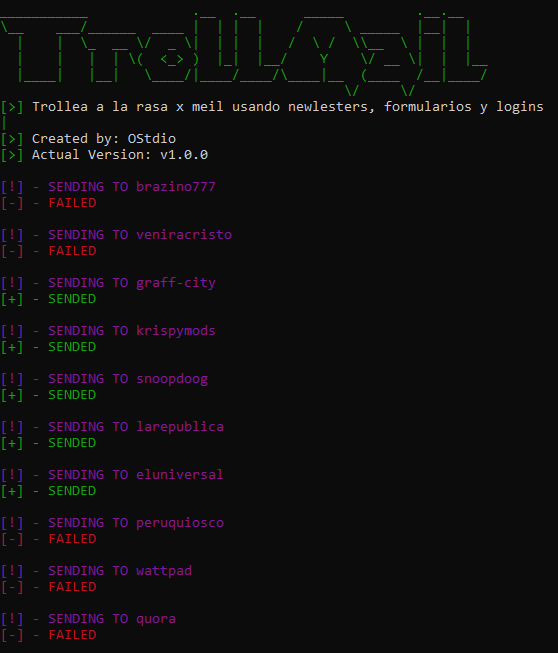
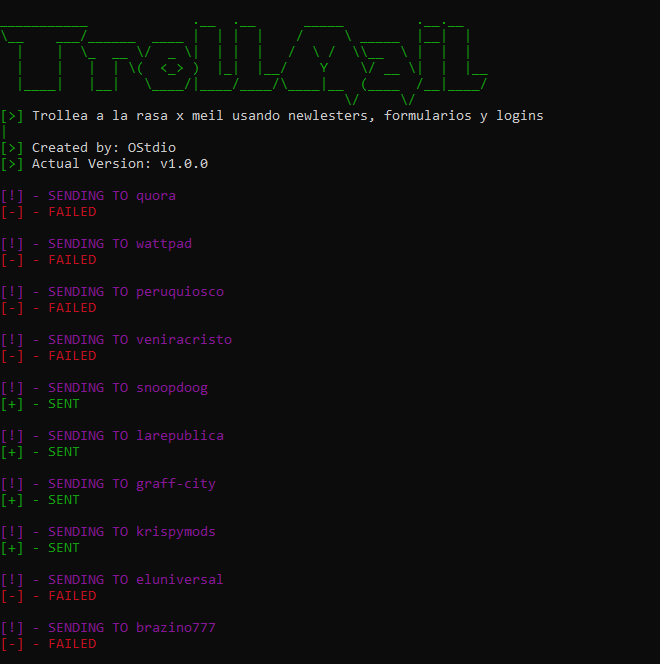
writing errors and threads fixed

diff --git a/send.py b/send.py
@@ -39,7 +39,7 @@ def send(mail: str, number: None, key: str) -> bool:
     print(f"{magenta}[!] - SENDING TO {key}")
 
     if status == 200:
-        print(f"{green}[+] - SENDED\n")
+        print(f"{green}[+] - SENT\n")
         return True
     
     print(f"{red}[-] - FAILED\n")
@@ -47,18 +47,10 @@ def send(mail: str, number: None, key: str) -> bool:
 
 # TODO: limitarlo a un numero de threads especifico
 def sendAll(mail: str, number: None) -> None:
-    threads: list = []
-
-    for key in get_dict(mail, number):
-
-        if key == "verniracristo" and number == None:
-            continue
-        thread = threading.Thread(
-            target=send,
-            args=(mail, number, key)
-        )
-        threads.append(thread)
+    threads: list = [threading.Thread(target=send, args=(mail, number, key)) for key in get_dict(mail, number)]
     
     for th in threads:
         th.start()
+    
+    for th in threads:
         th.join()

diff --git a/main.py b/main.py
@@ -13,7 +13,7 @@ from utils import MailIsReal
 init(autoreset=True)
 green = Fore.GREEN
 white = Fore.WHITE
-
+red = Fore.RED
 __version__ = "1.0.0"
 
 __banner__ = f"""
@@ -40,8 +40,8 @@ def main(mail: str, number=None) -> None:
     elif number != None:
         pass
     
-    if MailIsReal(mail=mail) is False:
-        stdout.write("[-] - Wrong email address")
+    if MailIsReal(mail=mail) == '@':
+        stdout.write(f"{red}[-] - Wrong email address")
         return
 
     sendAll(

diff --git a/utils.py b/utils.py
@@ -6,7 +6,7 @@ randomAPI: str = "https://random-data-api.com/api/v2/"
 def MailIsReal(mail: str) -> bool | str:
     """Check if mail is real or no with an advanced
     AI n Machine Learning Options data idk"""
-    if "@" in mail == True:
+    if "@" in mail:
         return True
     else:
         return "@" # holy shit albert einstein
